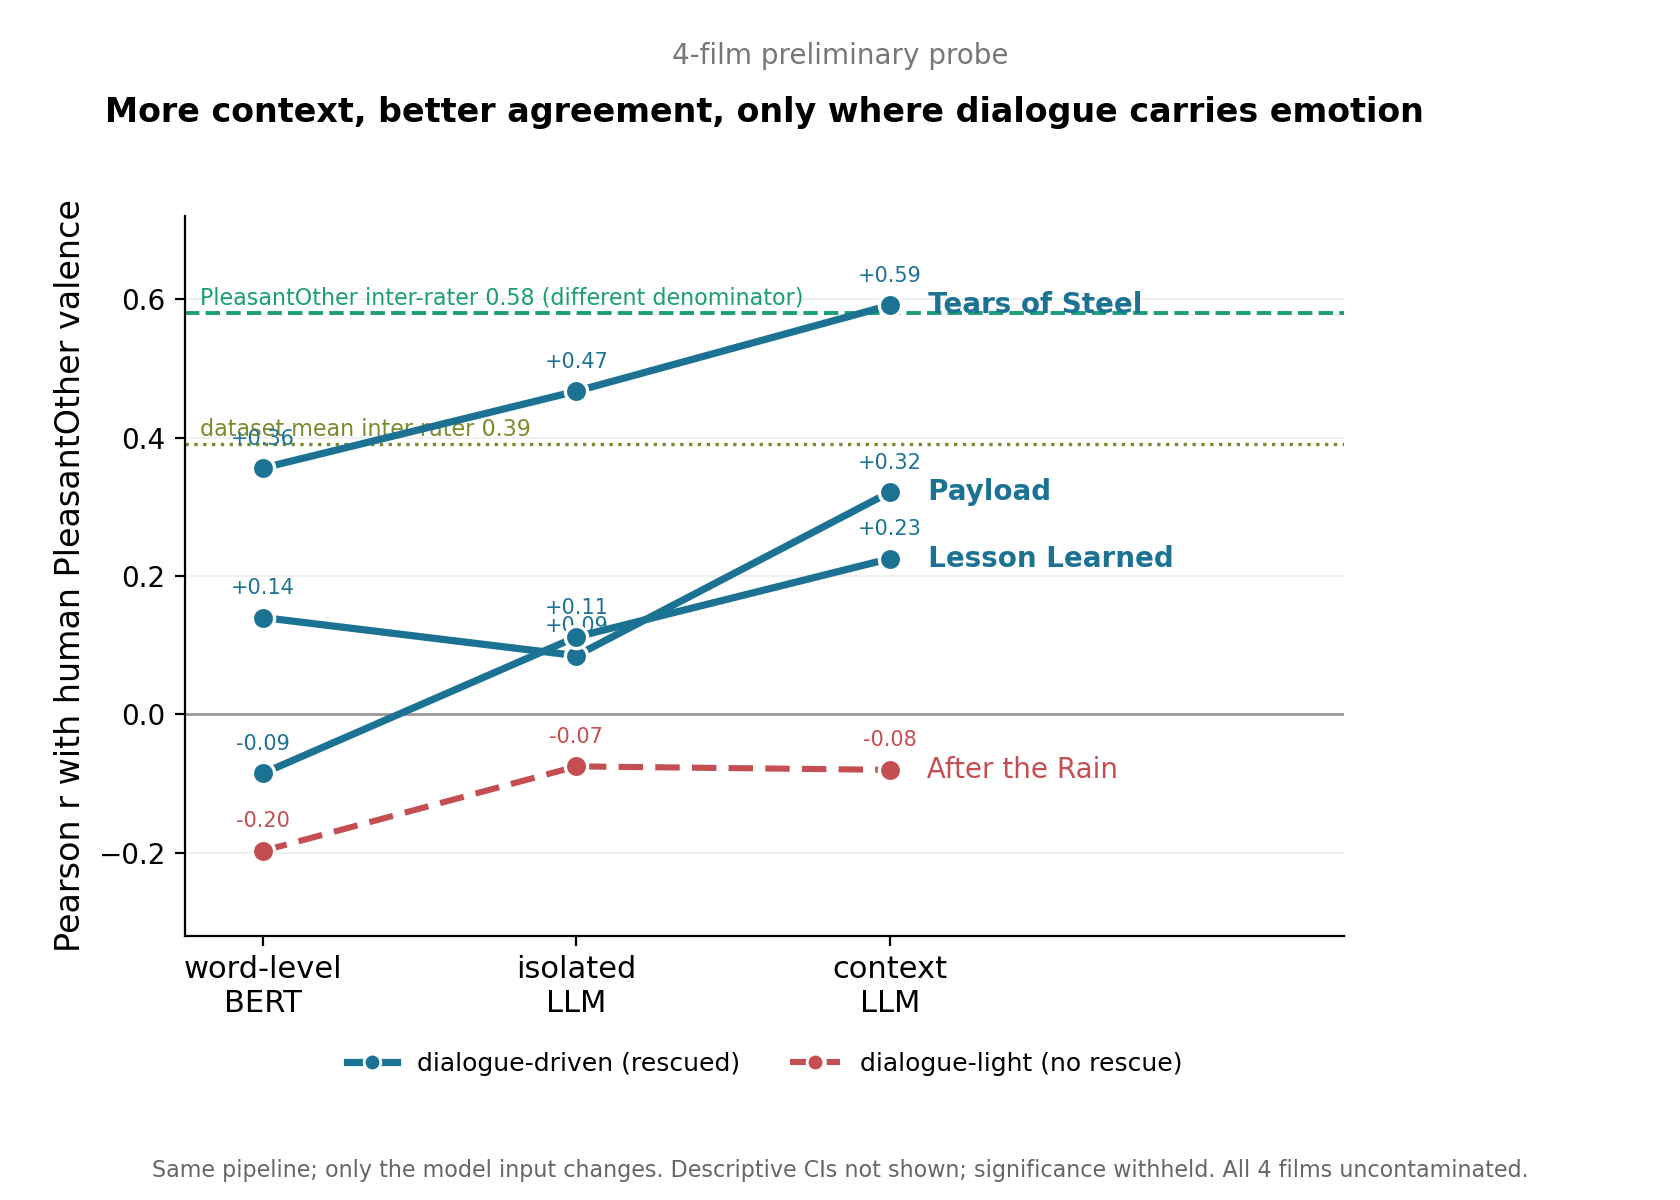
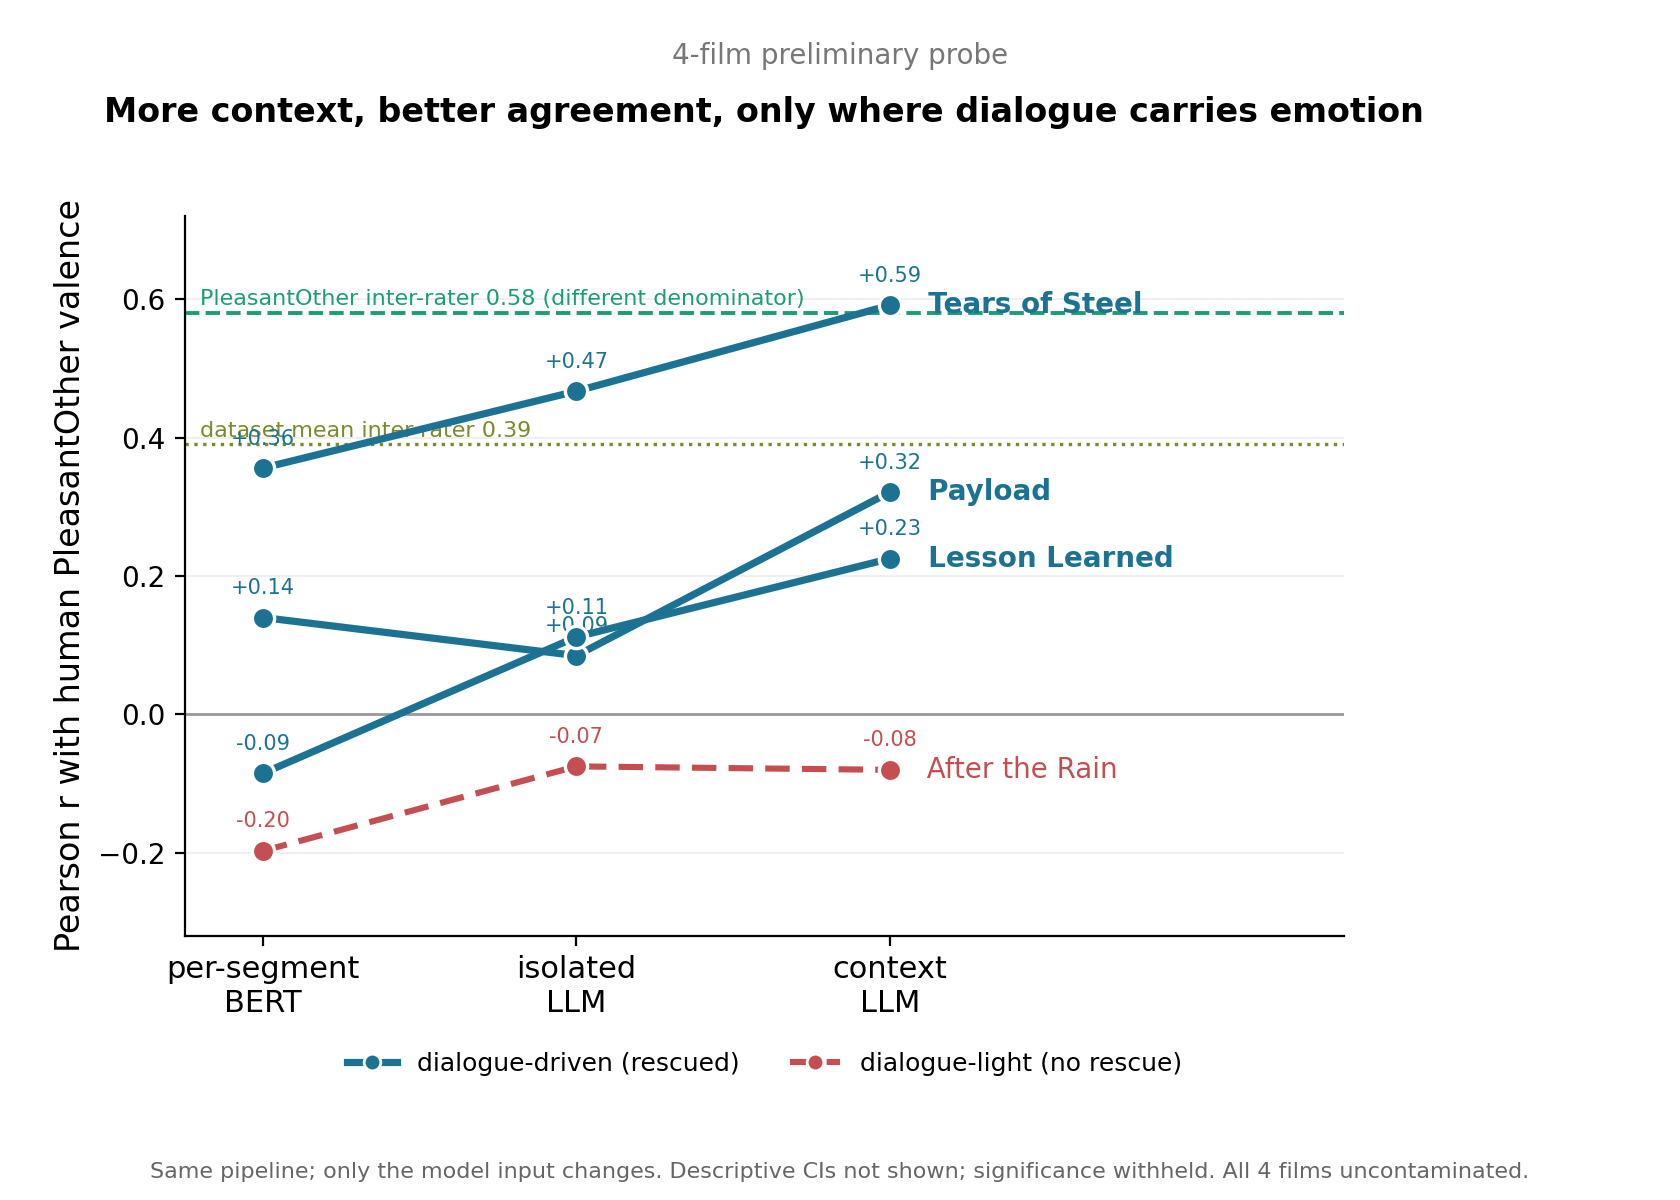
Retitle delta forest to 'a stronger model'; per-segment axis label

diff --git a/src/figures/make_delta_forest.py b/src/figures/make_delta_forest.py
@@ -78,7 +78,7 @@ ax.set_xlabel("Change in agreement with human valence  (Gemini \u2212 BERT, Pear
 ax.tick_params(axis="x", labelsize=10.5, colors=INK)
 
 # title
-ax.set_title("Context-aware LLM shifts agreement upward on 10 of 12 films",
+ax.set_title("A stronger model shifts agreement upward on 10 of 12 films",
              fontsize=14, color=INK, fontweight="bold", pad=30, loc="center")
 ax.text(0.5, 1.015,
         "Per-film paired difference; each film is its own control. Positive = Gemini agrees with humans more than BERT.",

diff --git a/src/figures/make_context_progression.py b/src/figures/make_context_progression.py
@@ -16,7 +16,7 @@ plt.rcParams.update({
     "pdf.fonttype": 42, "ps.fonttype": 42,
 })
 
-CONDS = ["word-level\nBERT", "isolated\nLLM", "context\nLLM"]
+CONDS = ["per-segment\nBERT", "isolated\nLLM", "context\nLLM"]
 X = [0, 1, 2]
 
 # film: (values across 3 conditions, color, is_flat)
